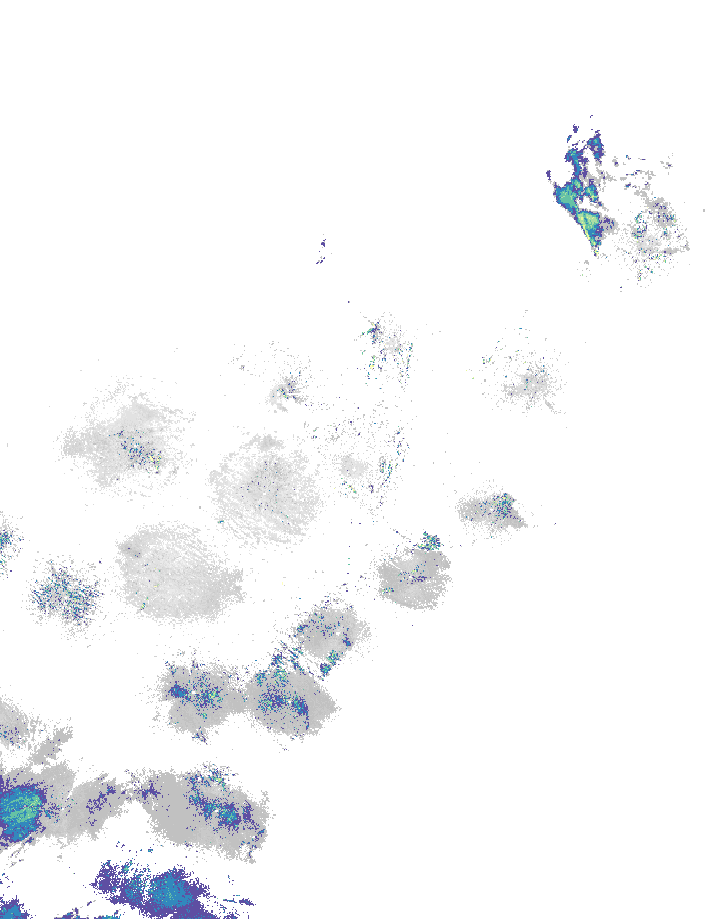
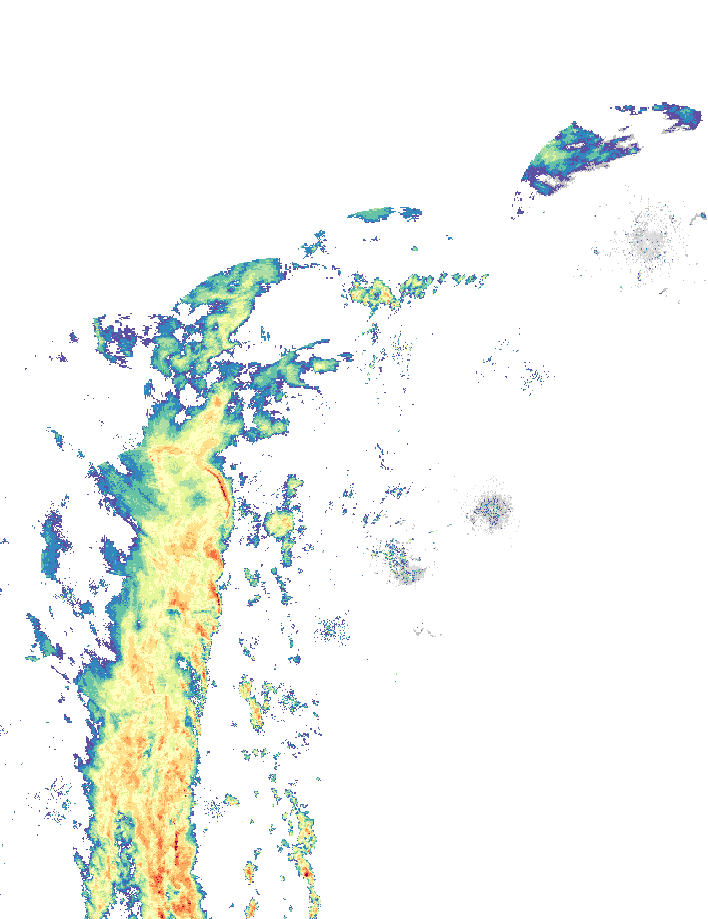
Change basemap to gray

diff --git a/radar2gif.py b/radar2gif.py
@@ -109,7 +109,7 @@ def download_radar_images(region):
     return images
 
 
-def make_gif(region):
+def make_gif(region, dimensions):
     images = download_radar_images(region)
 
     print "\nChanging radar projection"
@@ -119,8 +119,11 @@ def make_gif(region):
     image_list = [change_palette(im) for im in new_projections]
     print "Done"
 
+    print "\nResize Image"
+    thumbnails = [resize_image(image, dimensions) for image in image_list]
+
     print "\nAdding basemap"
-    frames = [add_basemap(image) for image in image_list]
+    frames = [add_basemap(image, idx) for idx, image in enumerate(thumbnails)]
     print "Done"
 
     print "\nCropping image"
@@ -130,18 +133,11 @@ def make_gif(region):
     print "\nConvert image format"
     cropped_frames = [Image.open(im) for im in cropped]
 
-    print "\nScaling down for Twitter"
-    size = (450, 450)
-    cropped_thumbnails = [resize_image(image, size) for image in cropped]
-
     print "\nMaking GIF"
     filename = '%s/%s.gif' % (SAVE_TO_DIR, region)
     writeGif(filename, cropped_frames, duration=0.1)
 
-    thumbnail_f = '%s/%s-twitter.gif' % (SAVE_TO_DIR, region)
-    writeGif(thumbnail_f, cropped_thumbnails, duration=0.12)
-
-    return thumbnail_f, cropped_thumbnails
+    return filename, cropped_frames
 
 
 def resize_gif(region, frames, idx):
@@ -181,14 +177,14 @@ def obtain_auth_url():
             + "'\nOAUTH_TOKEN_SECRET = '" + authorized['oauth_token_secret'] + "'")
 
 
-def tweet_gif(region, size=450, remove_frame=0):
+def tweet_gif(region, size=(450, 585), remove_frame=0):
     """Tweets the radar gif, includes region name and last radar image in tweet"""
 
     current_hour = arrow.now(region_to_tz[region]).hour
 
     # if running manually or at appointed hour
     if not bot or current_hour in [0, 3, 6, 9, 12, 15, 18, 21]:
-        gif, frames = make_gif(region)
+        gif, frames = make_gif(region, size)
         while os.path.getsize(gif) > 3000000:
             print "Resize Necessary: %s" % os.path.getsize(gif)
             remove_frame += 1
@@ -230,3 +226,4 @@ def get_map_bounds(region_name):
         bottom_right_coords[0], top_left_coords[1])
 
 tweet_gif('northeast')
+#get_map_bounds('northeast')

diff --git a/transform.py b/transform.py
@@ -97,11 +97,13 @@ def change_basemap(filename="basemap/northeast-outline.png"):
     im.save(filename, "PNG", dpi=[100, 100])
 
 
-def add_basemap(radar, region="northeast"):
-    basemap = "basemap/%s.png" % region
+def add_basemap(radar, idx, region="northeast"):
+    basemap = "basemap/%s-gray.png" % region
     background = Image.open(basemap)
-    foreground = Image.open(radar)
-    combined = "gif/basemap/%s-bm.png" % radar.split('/')[-1].split('.')[0]
+    foreground = radar
+    combined = "gif/basemap/%s-bm-%s.png" % (
+        basemap.split('/')[-1].split('.')[0],
+        idx)
 
     background.paste(foreground, (0, 0), foreground)
     background.convert("P").save(combined, "PNG", optimize=True)
@@ -112,7 +114,7 @@ def add_basemap(radar, region="northeast"):
 def crop_image(image):
     cropped = Image.open(image)
     w, h = cropped.size
-    cropped.crop((0, 91, w, h - 211)).save(image, "PNG", optimize=True)
+    cropped.crop((0, 40, w, h)).save(image, "PNG", optimize=True)
     return image
 
 
